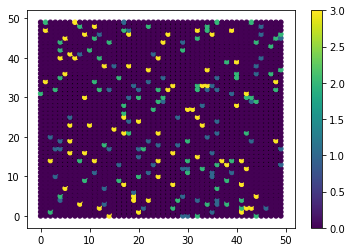
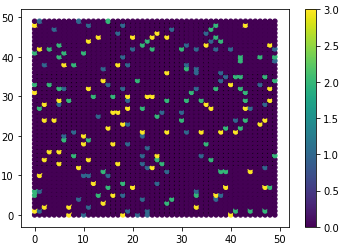
Aco code update and new plots, ants move now

diff --git a/Project 4/src/ACO.py b/Project 4/src/ACO.py
@@ -48,11 +48,11 @@ class Aco():
         #set initial values for gamma1, gamma2, gamma
         self.max_iter = max_iter
         #scale of dissimilarity, too large mis-clustering, too little small clusters are formed
-        self.gamma =2000
+        self.gamma =100
         #pick up constant
-        self.gamma1=1000
+        self.gamma1=.6
         #drop constant
-        self.gamma2=100
+        self.gamma2=.35
     
     def place_items(self):
         #place all items randomly on grid
@@ -155,29 +155,28 @@ class Aco():
                                       
                 #move ant to a randomly selected neighboring site not occupied by another ant
                 moves = self.get_neighborhood(ant_x, ant_y)
-                if not curr_ant[2]:
-                    moves_tried =0
-                    while True:
-                        #randomly pick one and move ant to it
-                        move = random.choice(moves)
-                        move_x = move[0]
-                        move_y = move[1]
-                        spot = self.grid[move_x][move_y]
-                        if spot[0] is None:
-                            #print("Ant ", ant, "moved")
-                            #self.colony.update({ant:[move[0],move[1],curr_ant[2], curr_ant[3]]})
-                            curr_ant[0]=move_x
-                            curr_ant[1]=move_y
-                            #print(self.grid[ant_x][ant_y])
-                            self.grid[ant_x][ant_y][0]= None
-                            self.grid[move_x][move_y][0]=ant
-                            #print(self.grid[ant_x][ant_y])
+                moves_tried =0
+                while True:
+                    #randomly pick one and move ant to it
+                    move = random.choice(moves)
+                    move_x = move[0]
+                    move_y = move[1]
+                    spot = self.grid[move_x][move_y]
+                    if spot[0] is None:
+                        #print("Ant ", ant, "moved")
+                        #self.colony.update({ant:[move[0],move[1],curr_ant[2], curr_ant[3]]})
+                        curr_ant[0]=move_x
+                        curr_ant[1]=move_y
+                        #print(self.grid[ant_x][ant_y])
+                        self.grid[ant_x][ant_y][0]= None
+                        self.grid[move_x][move_y][0]=ant
+                        #print(self.grid[ant_x][ant_y])
+                        break
+                    else:
+                        moves_tried +=1
+                        if moves_tried >16:
+                            print("This ant is stuck.  Plz halp", ant)
                             break
-                        else:
-                            moves_tried +=1
-                            if moves_tried >16:
-                                print("This ant is stuck.  Plz halp", ant)
-                                break
 #                 else:
 #                     while True:
 #                         moves_tried =0
@@ -209,6 +208,7 @@ class Aco():
 #                         if info[2]:
 #                             count+=1
 #                     print("Ants still holding: ",count-1)
+
                     
     def finale(self):
         count =0
@@ -227,33 +227,32 @@ class Aco():
 
                 #move ant to a randomly selected neighboring site not occupied by another ant
                 moves = self.get_neighborhood(ant_x, ant_y)
-                if not curr_ant[2]:
-                    moves_tried =0
-                    while True:
-                        #randomly pick one and move ant to it
-                        move = random.choice(moves)
-                        move_x = move[0]
-                        move_y = move[1]
-                        spot = self.grid[move_x][move_y]
-                        if spot[0] is None:
-                            #print("Ant ", ant, "moved")
-                            #self.colony.update({ant:[move[0],move[1],curr_ant[2], curr_ant[3]]})
-                            curr_ant[0]=move_x
-                            curr_ant[1]=move_y
-                            #print(self.grid[ant_x][ant_y])
-                            self.grid[ant_x][ant_y][0]= None
-                            self.grid[move_x][move_y][0]=ant
-                            #print(self.grid[ant_x][ant_y])
+                moves_tried =0
+                while True:
+                    #randomly pick one and move ant to it
+                    move = random.choice(moves)
+                    move_x = move[0]
+                    move_y = move[1]
+                    spot = self.grid[move_x][move_y]
+                    if spot[0] is None:
+                        #print("Ant ", ant, "moved")
+                        #self.colony.update({ant:[move[0],move[1],curr_ant[2], curr_ant[3]]})
+                        curr_ant[0]=move_x
+                        curr_ant[1]=move_y
+                        #print(self.grid[ant_x][ant_y])
+                        self.grid[ant_x][ant_y][0]= None
+                        self.grid[move_x][move_y][0]=ant
+                        #print(self.grid[ant_x][ant_y])
+                        break
+                    else:
+                        moves_tried +=1
+                        if moves_tried >16:
+                            print("This ant is stuck.  Plz halp", ant)
                             break
-                        else:
-                            moves_tried +=1
-                            if moves_tried >30:
-                                print("This ant is stuck.  Plz halp", ant)
-                                break
             count+=1
-            if count %10000 ==0:
+            if count %1000 ==0:
                 print("Finale: ", count)
-            if count > 60000:
+            if count > 3000:
                 break
             
                 
